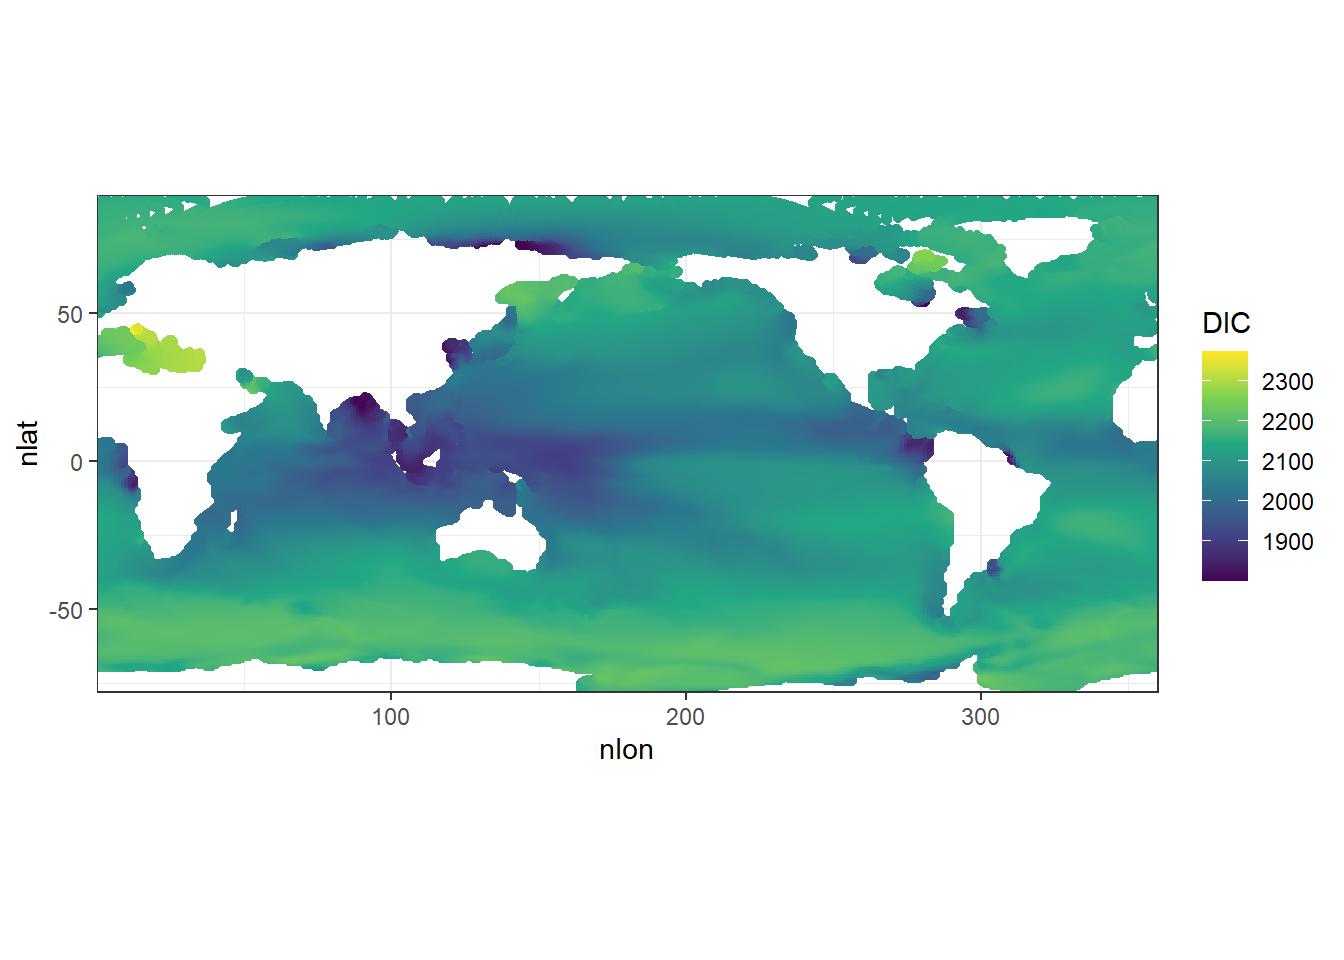
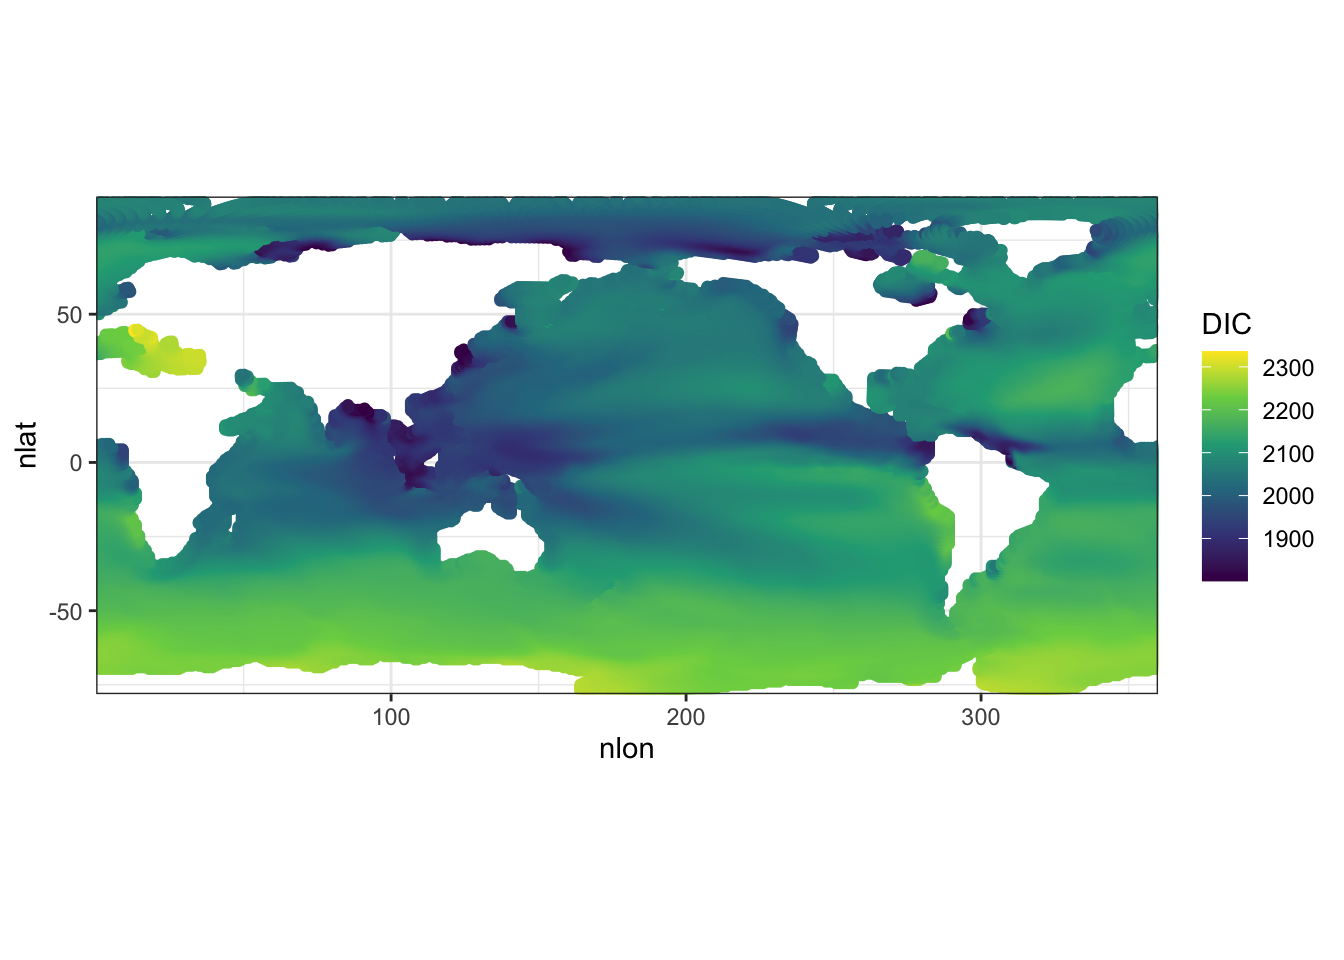
Build site.

diff --git a/docs/read_model_data.html b/docs/read_model_data.html
@@ -402,7 +402,7 @@ div.tocify {
 
 <h1 class="title toc-ignore">Read and plot model data</h1>
 <h4 class="author">Donghe Zhu and Dr Jens Daniel Müller</h4>
-<h4 class="date">01 October, 2020</h4>
+<h4 class="date">02 十月, 2020</h4>
 
 </div>
 
@@ -427,7 +427,7 @@ div.tocify {
 <div class="tab-content">
 <div id="summary" class="tab-pane fade in active">
 <p>
-<strong>Last updated:</strong> 2020-10-01
+<strong>Last updated:</strong> 2020-10-02
 </p>
 <p>
 <strong>Checks:</strong> <span class="glyphicon glyphicon-ok text-success" aria-hidden="true"></span> 7 <span class="glyphicon glyphicon-exclamation-sign text-danger" aria-hidden="true"></span> 0
@@ -475,7 +475,7 @@ This reproducible <a href="http://rmarkdown.rstudio.com">R Markdown</a> analysis
 </div>
 <div id="strongSeedstrongcodesetseed20200930code" class="panel-collapse collapse">
 <div class="panel-body">
-<p>The command <code>set.seed(20200930)</code> was run prior to running the code in the R Markdown file. Setting a seed ensures that any results that rely on randomness, e.g. subsampling or permutations, are reproducible.</p>
+<p>The command <code>set.seed(20200930)</code> was run prior to running the code in the R Markdown file. Setting a seed ensures that any results that rely on randomness, e.g. subsampling or permutations, are reproducible.</p>
 </div>
 </div>
 </div>
@@ -518,26 +518,29 @@ This reproducible <a href="http://rmarkdown.rstudio.com">R Markdown</a> analysis
 <div class="panel panel-default">
 <div class="panel-heading">
 <p class="panel-title">
-<a data-toggle="collapse" data-parent="#workflowr-checks" href="#strongRepositoryversionstrongahrefhttpsgithubcomDongheZhueMLRmodeltesttreed191a0d0c153fcd62f0bac68c4892c22e12c5f28targetblankd191a0da"> <span class="glyphicon glyphicon-ok text-success" aria-hidden="true"></span> <strong>Repository version:</strong> <a href="https://github.com/Donghe-Zhu/eMLR_model_test/tree/d191a0d0c153fcd62f0bac68c4892c22e12c5f28" target="_blank">d191a0d</a> </a>
+<a data-toggle="collapse" data-parent="#workflowr-checks" href="#strongRepositoryversionstrongahrefhttpsgithubcomDongheZhueMLRmodeltesttree2862db53b25e458a637330007f7bae6e12e1d407targetblank2862db5a"> <span class="glyphicon glyphicon-ok text-success" aria-hidden="true"></span> <strong>Repository version:</strong> <a href="https://github.com/Donghe-Zhu/eMLR_model_test/tree/2862db53b25e458a637330007f7bae6e12e1d407" target="_blank">2862db5</a> </a>
 </p>
 </div>
[2 lines of base64/hex data omitted]
 <div class="panel-body">
 <p>
 Great! You are using Git for version control. Tracking code development and connecting the code version to the results is critical for reproducibility.
 </p>
 <p>
-The results in this page were generated with repository version <a href="https://github.com/Donghe-Zhu/eMLR_model_test/tree/d191a0d0c153fcd62f0bac68c4892c22e12c5f28" target="_blank">d191a0d</a>. See the <em>Past versions</em> tab to see a history of the changes made to the R Markdown and HTML files.
+The results in this page were generated with repository version <a href="https://github.com/Donghe-Zhu/eMLR_model_test/tree/2862db53b25e458a637330007f7bae6e12e1d407" target="_blank">2862db5</a>. See the <em>Past versions</em> tab to see a history of the changes made to the R Markdown and HTML files.
 </p>
 <p>
 Note that you need to be careful to ensure that all relevant files for the analysis have been committed to Git prior to generating the results (you can use <code>wflow_publish</code> or <code>wflow_git_commit</code>). workflowr only checks the R Markdown file, but you know if there are other scripts or data files that it depends on. Below is the status of the Git repository when the results were generated:
 </p>
 <pre><code>
 Ignored files:
+    Ignored:    .DS_Store
+    Ignored:    .Rhistory
     Ignored:    .Rproj.user/
+    Ignored:    analysis/.DS_Store
 
 Untracked files:
-    Untracked:  code/Workflowr_project_managment_jdm.R
+    Untracked:  code/Workflowr_project_managment.R
 
 </code></pre>
 <p>
@@ -576,6 +579,40 @@ Message
 </tr>
 </thead>
 <tbody>
+<tr>
+<td>
+Rmd
+</td>
+<td>
+<a href="https://github.com/Donghe-Zhu/eMLR_model_test/blob/2862db53b25e458a637330007f7bae6e12e1d407/analysis/read_model_data.Rmd" target="_blank">2862db5</a>
+</td>
+<td>
+Donghe_Zhu
+</td>
+<td>
+2020-10-02
+</td>
+<td>
+DIC plot 1
+</td>
+</tr>
+<tr>
+<td>
+html
+</td>
+<td>
+<a href="https://rawcdn.githack.com/Donghe-Zhu/eMLR_model_test/773d592d6d5a06ccca5af4cc1a84ae63beedcb79/docs/read_model_data.html" target="_blank">773d592</a>
+</td>
+<td>
+jens-daniel-mueller
+</td>
+<td>
+2020-10-01
+</td>
+<td>
+Build site.
+</td>
+</tr>
 <tr>
 <td>
 Rmd
@@ -1008,16 +1045,19 @@ XXX
 </div>
 </div>
 </div>
+<pre class="r"><code># Some basic settings to improve the html output
+knitr::opts_chunk$set(warning = FALSE, message = FALSE)</code></pre>
 <div id="required-packages" class="section level1">
 <h1><span class="header-section-number">1</span> Required Packages</h1>
 <pre class="r"><code>library(tidyverse) # the tidverse combines several packages
-
 library(ncdf4)
 library(stars)
 library(tidync)
 library(tidyselect)
 library(geosphere)
 library(PCICt)</code></pre>
+<pre class="r"><code># ggplot theme for all plots
+theme_set(theme_bw())</code></pre>
 </div>
 <div id="read-data-from-netcdf-file" class="section level1">
 <h1><span class="header-section-number">2</span> Read data from netcdf file</h1>
@@ -1037,25 +1077,58 @@ nc_data_tibble &lt;- nc_data %&gt;%
 nc_data_tibble_surface &lt;- nc_data_tibble %&gt;%
   filter(z_t == 500)
 
-# filter winter data
-nc_data_tibble_surface_winter &lt;- nc_data_tibble_surface %&gt;%
-  filter(time == as.PCICt(&quot;0354-12-30&quot;, cal = &quot;365_day&quot;))
-
-nc_data_tibble_surface_winter &lt;- nc_data_tibble_surface_winter %&gt;%
-  mutate(DIC = as.numeric(DIC))
-
-nc_data_tibble_surface_winter &lt;- nc_data_tibble_surface_winter %&gt;%
+# filter August data
+nc_data_tibble_surface_Aug &lt;- nc_data_tibble_surface %&gt;%
+  filter(time == as.PCICt(&quot;0355-07-30&quot;, cal = &quot;365_day&quot;)) %&gt;%
+  mutate(DIC = as.numeric(DIC)) %&gt;%
   filter(!is.na(DIC))</code></pre>
 </div>
 <div id="map-surface-dic" class="section level1">
 <h1><span class="header-section-number">3</span> Map surface DIC</h1>
-<pre class="r"><code>nc_data_tibble_surface_winter %&gt;%
+<pre class="r"><code>nc_data_tibble_surface_Aug %&gt;%
   filter(DIC &gt; 1800) %&gt;%
   ggplot() +
   geom_point(aes(nlon, nlat, col = DIC)) +
   scale_color_viridis_c() +
   coord_quickmap(expand = 0)</code></pre>
 <p><img src="figure/read_model_data.Rmd/Map_surface_DIC-1.png" width="672" style="display: block; margin: auto;" /></p>
+<p>
+<button type="button" class="btn btn-default btn-xs btn-workflowr btn-workflowr-fig" data-toggle="collapse" data-target="#fig-Map_surface_DIC-1">
+Past versions of Map_surface_DIC-1.png
+</button>
+</p>
+<div id="fig-Map_surface_DIC-1" class="collapse">
+<div class="table-responsive">
+<table class="table table-condensed table-hover">
+<thead>
+<tr>
+<th>
+Version
+</th>
+<th>
+Author
+</th>
+<th>
+Date
+</th>
+</tr>
+</thead>
+<tbody>
+<tr>
+<td>
+<a href="https://github.com/Donghe-Zhu/eMLR_model_test/blob/27bb170f8157e627cdfeeeabc261018b9d1d8a2b/docs/figure/read_model_data.Rmd/Map_surface_DIC-1.png" target="_blank">27bb170</a>
+</td>
+<td>
+jens-daniel-mueller
+</td>
+<td>
+2020-10-01
+</td>
+</tr>
+</tbody>
+</table>
+</div>
+</div>
 <pre class="r"><code># set parameters
 parameters &lt;- data.frame(
   lon_Atl_section = 335.5,
@@ -1134,8 +1207,26 @@ section_global_coordinates &lt;- section_global_coordinates %&gt;%
   drop_na()
 
 rm(Atl_NS, Atl_SO, Pac_SN, Pac_SO, section)
-
-# to be continued</code></pre>
+DIC_all_depthes &lt;- nc_data_tibble %&gt;%
+  filter(time == as.PCICt(&quot;0355-07-30&quot;, cal = &quot;365_day&quot;)) %&gt;%
+  select(nlon,nlat,z_t,DIC) %&gt;%
+  rename(lon=nlon,
+         lat=nlat,
+         depth=z_t,
+         value=DIC)
+DIC_all_depthes$lon&lt;-round(DIC_all_depthes$lon+0.5)-0.5
+DIC_all_depthes$lat&lt;-round(DIC_all_depthes$lat+0.5)-0.5
+DIC_all_depthes$value&lt;-as.numeric(DIC_all_depthes$value)
+DIC_path&lt;-left_join(section_global_coordinates, DIC_all_depthes) %&gt;%
+  na.omit()</code></pre>
+<pre class="r"><code>DIC_path %&gt;% 
+    ggplot(aes(dist, depth, color = value)) +
+    geom_point() +
+    # scale_color_discrete() +
+    # scale_colour_gradientn(colours = c(&quot;red&quot;, &quot;white&quot;, &quot;blue&quot;)) +
+    scale_y_reverse() +
+    scale_color_viridis_c()</code></pre>
+<p><img src="figure/read_model_data.Rmd/unnamed-chunk-1-1.png" width="672" style="display: block; margin: auto;" /></p>
 <pre class="r"><code># read in basinmask and landsea file
 basinmask_01 &lt;- read_csv(here::here(&quot;data&quot;,
                                     &quot;basinmask_01.msk&quot;),
@@ -1168,7 +1259,7 @@ basinmask_01 &lt;- basinmask_01 %&gt;%
            Basin_0m == &quot;56&quot; ~ &quot;Pacific&quot;,
            Basin_0m == &quot;10&quot; &amp; lon &gt;= 147 | lon &lt; -63 ~ &quot;Pacific&quot;)) %&gt;% 
   select(-Basin_0m) 
-#  mutate(lon = if_else(lon &lt; 20, lon + 360, lon))
+  #mutate(lon = if_else(lon &lt; 0, lon + 360, lon))
 
 # plot three ocean scope
 ggplot() +
@@ -1180,40 +1271,46 @@ ggplot() +
   coord_quickmap(expand = 0) +
   theme(legend.position = &quot;top&quot;,
         legend.title = element_blank(),
-        axis.title = element_blank())
-
-# seperate Oceans with lat and lon
+        axis.title = element_blank())</code></pre>
+<p><img src="figure/read_model_data.Rmd/Zonal%20mean%20DIC-1.png" width="672" style="display: block; margin: auto;" /></p>
+<pre class="r"><code># seperate Oceans with lat and lon
 basin_Pacific &lt;- basinmask_01 %&gt;%
   filter(basin_AIP==&quot;Pacific&quot;) 
 basin_Indian&lt;-basinmask_01 %&gt;%
   filter(basin_AIP==&quot;Indian&quot;) 
 basin_Atlantic&lt;-basinmask_01 %&gt;%
-  filter(basin_AIP==&quot;Atlantic&quot;)
+  filter(basin_AIP==&quot;Atlantic&quot;)</code></pre>
+<pre class="r"><code># filter surface data
+DIC&lt;- nc_data_tibble_surface_Aug %&gt;%
+  select(nlon,nlat,DIC) %&gt;%
+  rename(lon=nlon,
+         lat=nlat,
+         value=DIC)
 
-# read in DIC data
-nc_data &lt;- tidync(here::here(&quot;data&quot;,
-                      &quot;GIAF_JRA.pop.h.0354.nc&quot;))
-DIC &lt;- nc_data %&gt;%
-  hyper_tibble(select_var = &quot;DIC&quot;) %&gt;%
-  hyper_filter(depth = 500, month = 8)
+DIC$lon&lt;-round(DIC$lon+0.5)-0.5
+DIC$lat&lt;-round(DIC$lat+0.5)-0.5
+DIC$lon&lt;-if_else(DIC$lon &gt; 180, DIC$lon - 360, DIC$lon)
 
 # join DIC tibbles and plot basin zonal mean DIC
 DIC_Pacific &lt;- left_join(basin_Pacific, DIC) %&gt;%
   group_by(lat) %&gt;%
   summarise(value = mean(value, na.rm = TRUE)) %&gt;%
-  ggplot(aes(lat, value)) +
+  ggplot(aes(lat, value)) + 
+  geom_line() +
   labs(title = &quot;Zone Mean DIC&quot;, subtitle = &quot;Subsection: Pacific Ocean&quot;, x = &quot;Latitude&quot;, y = expression(paste(&quot;DIC (gC m&quot;^-2, &quot;s&quot;^-1, &quot;)&quot;)))
 
 DIC_Indian &lt;- left_join(basin_Indian, DIC) %&gt;%
   group_by(lat) %&gt;%
   summarise(value = mean(value, na.rm = TRUE)) %&gt;%
   ggplot(aes(lat, value)) +
+  geom_line() +
   labs(title = &quot;Zone Mean DIC&quot;, subtitle = &quot;Subsection: Indian Ocean&quot;, x = &quot;Latitude&quot;, y = expression(paste(&quot;DIC (gC m&quot;^-2, &quot;s&quot;^-1, &quot;)&quot;)))
 
 DIC_Atlantic &lt;- left_join(basin_Atlantic, DIC) %&gt;%
   group_by(lat) %&gt;%
   summarise(value = mean(value, na.rm = TRUE)) %&gt;%
   ggplot(aes(lat, value)) +
+  geom_line() +
   labs(title = &quot;Zone Mean DIC&quot;, subtitle = &quot;Subsection: Atlantic Ocean&quot;, x = &quot;Latitude&quot;, y = expression(paste(&quot;DIC (gC m&quot;^-2, &quot;s&quot;^-1, &quot;)&quot;)))</code></pre>
 <br>
 <p>
@@ -1223,46 +1320,46 @@ DIC_Atlantic &lt;- left_join(basin_Atlantic, DIC) %&gt;%
 </p>
 <div id="workflowr-sessioninfo" class="collapse">
 <pre class="r"><code>sessionInfo()</code></pre>
-<pre><code>R version 4.0.2 (2020-06-22)
-Platform: x86_64-w64-mingw32/x64 (64-bit)
-Running under: Windows 10 x64 (build 18363)
+<pre><code>R version 3.6.1 (2019-07-05)
+Platform: x86_64-apple-darwin15.6.0 (64-bit)
+Running under: macOS Catalina 10.15.6
 
 Matrix products: default
+BLAS:   /Library/Frameworks/R.framework/Versions/3.6/Resources/lib/libRblas.0.dylib
+LAPACK: /Library/Frameworks/R.framework/Versions/3.6/Resources/lib/libRlapack.dylib
 
 locale:
-[1] LC_COLLATE=English_Germany.1252  LC_CTYPE=English_Germany.1252   
-[3] LC_MONETARY=English_Germany.1252 LC_NUMERIC=C                    
-[5] LC_TIME=English_Germany.1252    
+[1] zh_CN.UTF-8/zh_CN.UTF-8/zh_CN.UTF-8/C/zh_CN.UTF-8/zh_CN.UTF-8
 
 attached base packages:
 [1] stats     graphics  grDevices utils     datasets  methods   base     
 
 other attached packages:
  [1] PCICt_0.5-4.1    geosphere_1.5-10 tidyselect_1.1.0 tidync_0.2.4    
- [5] stars_0.4-3      sf_0.9-5         abind_1.4-5      ncdf4_1.17      
- [9] forcats_0.5.0    stringr_1.4.0    dplyr_1.0.0      purrr_0.3.4     
-[13] readr_1.3.1      tidyr_1.1.0      tibble_3.0.3     ggplot2_3.3.2   
+ [5] stars_0.4-3      sf_0.9-6         abind_1.4-5      ncdf4_1.17      
+ [9] forcats_0.5.0    stringr_1.4.0    dplyr_1.0.2      purrr_0.3.4     
+[13] readr_1.3.1      tidyr_1.1.2      tibble_3.0.3     ggplot2_3.3.2   
 [17] tidyverse_1.3.0  workflowr_1.6.2 
 
 loaded via a namespace (and not attached):
- [1] httr_1.4.2         viridisLite_0.3.0  jsonlite_1.7.0     here_0.1          
+ [1] httr_1.4.2         viridisLite_0.3.0  jsonlite_1.7.1     here_0.1          
  [5] modelr_0.1.8       assertthat_0.2.1   sp_1.4-2           blob_1.2.1        
- [9] cellranger_1.1.0   yaml_2.2.1         pillar_1.4.6       backports_1.1.8   
-[13] lattice_0.20-41    glue_1.4.1         digest_0.6.25      promises_1.1.1    
-[17] rvest_0.3.6        colorspace_1.4-1   htmltools_0.5.0    httpuv_1.5.4      
-[21] pkgconfig_2.0.3    broom_0.7.0        haven_2.3.1        scales_1.1.1      
-[25] whisker_0.4        later_1.1.0.1      git2r_0.27.1       farver_2.0.3      
-[29] generics_0.0.2     ellipsis_0.3.1     withr_2.2.0        cli_2.0.2         
-[33] magrittr_1.5       crayon_1.3.4       readxl_1.3.1       evaluate_0.14     
-[37] fs_1.4.2           fansi_0.4.1        xml2_1.3.2         lwgeom_0.2-5      
-[41] class_7.3-17       tools_4.0.2        hms_0.5.3          lifecycle_0.2.0   
-[45] munsell_0.5.0      reprex_0.3.0       compiler_4.0.2     e1071_1.7-3       
-[49] RNetCDF_2.3-1      rlang_0.4.7        classInt_0.4-3     units_0.6-7       
-[53] grid_4.0.2         rstudioapi_0.11    labeling_0.3       rmarkdown_2.3     
-[57] gtable_0.3.0       DBI_1.1.0          R6_2.4.1           ncmeta_0.2.5      
-[61] lubridate_1.7.9    knitr_1.30         rprojroot_1.3-2    KernSmooth_2.23-17
-[65] stringi_1.4.6      parallel_4.0.2     Rcpp_1.0.5         vctrs_0.3.2       
-[69] dbplyr_1.4.4       xfun_0.16         </code></pre>
+ [9] cellranger_1.1.0   yaml_2.2.1         pillar_1.4.6       backports_1.1.10  
+[13] lattice_0.20-38    glue_1.4.2         digest_0.6.25      RColorBrewer_1.1-2
+[17] promises_1.1.1     rvest_0.3.6        colorspace_1.4-1   htmltools_0.5.0   
+[21] httpuv_1.5.4       pkgconfig_2.0.3    broom_0.7.0        haven_2.3.1       
+[25] scales_1.1.1       whisker_0.4        later_1.1.0.1      git2r_0.27.1      
+[29] farver_2.0.3       generics_0.0.2     ellipsis_0.3.1     withr_2.3.0       
+[33] cli_2.0.2          magrittr_1.5       crayon_1.3.4       readxl_1.3.1      
+[37] evaluate_0.14      fs_1.5.0           fansi_0.4.1        xml2_1.3.2        
+[41] lwgeom_0.2-5       class_7.3-15       tools_3.6.1        hms_0.5.3         
+[45] lifecycle_0.2.0    munsell_0.5.0      reprex_0.3.0       compiler_3.6.1    
+[49] e1071_1.7-3        RNetCDF_2.4-2      rlang_0.4.7        classInt_0.4-3    
+[53] units_0.6-7        grid_3.6.1         rstudioapi_0.10    labeling_0.3      
+[57] rmarkdown_2.3      gtable_0.3.0       DBI_1.1.0          R6_2.4.1          
+[61] ncmeta_0.3.0       lubridate_1.7.9    knitr_1.30         rprojroot_1.3-2   
+[65] KernSmooth_2.23-15 stringi_1.5.3      parallel_3.6.1     Rcpp_1.0.5        
+[69] vctrs_0.3.4        dbplyr_1.4.4       xfun_0.17         </code></pre>
 </div>
 </div>
 
